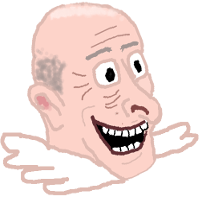
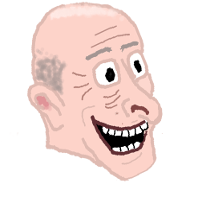
Aleteo

Changed region(s): [[0.0, 0.66, 0.63, 0.99], [0.75, 0.6, 1.0, 0.81]]

diff --git a/flappywert/flappy-min.js b/flappywert/flappy-min.js
@@ -1,1 +1,1 @@
-bg=document.getElementById("bg");H=bg.clientHeight;W=bg.clientWidth;G=H/240;UP=H/35;SPEED_WALL=W/100;GAP=H/3;WERT_SIZE=GAP/3;WALL_WIDTH=WERT_SIZE;fg=document.getElementById("fg");fg.style.width=W+"px";fg.style.height=H+"px";score=document.getElementById("score");running=true;var txt=["","RECORTES","CATALUNYA","GOYA","ERASMUS","BECAS","FUGA CEREBROS","CEDRO","INTERNET","CEDRO","ENLACES",""];function Wert(a,b){this.div=document.getElementById("wert");this.maxY=a;this.maxX=b;this.x=b/3;this.y=a/3;this.speedY=0;this.div.style.width=(WERT_SIZE+10)+"px";this.div.style.height=(WERT_SIZE+10)+"px";this.numPass=0;this.speedX=0;this.limitX=this.x;this.lives=1;this.div.style.left=this.x+"px";this.div.src="wert.png";this.setPos=function(c){this.y=c;this.div.style.top=c+"px"};this.moveDown=function(){if(this.speedY>0){this.div.className="rotdown"}this.y+=this.speedY;this.div.style.top=this.y+"px";this.speedY+=G;if(this.y+WERT_SIZE>=this.maxY){this.y=this.maxY-WERT_SIZE;this.speedY=-UP/2}this.x+=this.speedX;if(this.x>this.limitX){this.x=this.limitX;this.speedX=0;this.div.style.left=this.x+"px"}if(this.x<this.limitX){this.speedX+=G;this.div.style.left=this.x+"px"}};this.moveUp=function(){this.div.className="rotup";this.speedY=-UP;this.moveDown()};this.hitLeft=function(){this.lives-=1;this.div.src="wert_golpe.png";this.speedX=-1.5*UP};this.hitUp=function(){this.lives-=1;this.div.src="wert_golpe.png";this.speedY=UP/4};this.hitDown=function(){this.lives-=1;this.div.src="wert_golpe.png";this.speedY=-UP/2}}function Wall(b,a){this.x=b;this.gapTop=Math.random()*H;this.div=document.getElementById(a);this.div.style.height=H+"px";this.div.style.left=b+"px";this.wallUp=this.div.childNodes[0];this.wallDown=this.div.childNodes[1];this.width=WALL_WIDTH;this.renew=function(c){this.x=c;this.div.style.left=c+"px";this.div.style.width=this.width+"px";this.gapTop=0.5*GAP+Math.random()*(H-2*GAP);this.wallUp.style.height=this.gapTop+"px";this.wallUp.style.marginBottom=GAP+"px";this.wallDown.style.height=(H-GAP-this.gapTop)+"px";idx=Math.floor(Math.random()*(txt.length-1));mytxt="<span>"+txt[idx].split("").join("<br/>")+"</span>";this.wallUp.innerHTML=mytxt;this.wallDown.innerHTML=mytxt};this.setPos=function(c){this.x=c;this.div.style.left=c+"px"};this.moveLeft=function(){this.x-=SPEED_WALL;this.div.style.left=this.x+"px"};this.checkCrash=function(c){if((this.x+this.width)<=c.x){if(this.x+this.width+SPEED_WALL>c.x){c.numPass+=1;score.textContent=""+c.numPass}return false}if(c.x+WERT_SIZE+10<=this.x){return false}if(c.y>=this.gapTop&&(c.y+WERT_SIZE)<=this.gapTop+GAP){return false}if(c.x<=(this.x-WERT_SIZE/2)){c.x=this.x-WERT_SIZE;c.hitLeft()}else{if(c.y<this.gapTop){c.hitUp();c.y=this.gapTop}else{c.hitDown();c.y=this.gapTop+GAP-WERT_SIZE}}return true}}var wert;var walls;var intervalId;function startGame(){running=true;wert=new Wert(H,W);score.textContent=""+wert.numPass;wall1=new Wall(W,"wall1");wall2=new Wall(W,"wall2");wall3=new Wall(W,"wall3");walls=new Array();walls.push(wall1);walls.push(wall2);walls.push(wall3);var b;var a=W;for(b=0;b<walls.length;b++){walls[b].renew(a+b*W/(walls.length-1))}intervalId=setInterval(loop,70)}function touch(){if(running){wert.moveUp()}}function loop(){wert.moveDown();for(i=0;i<walls.length;i++){if(walls[i].checkCrash(wert)){if(wert.lives<0){running=false;window.clearInterval(intervalId);window.setTimeout(startGame,1500)}}walls[i].moveLeft();if(walls[i].x+walls[i].width<0){walls[i].renew(W+(walls.length-2)*W/(walls.length-1))}}}startGame();
+bg=document.getElementById("bg");H=bg.clientHeight;W=bg.clientWidth;G=H/240;UP=H/35;SPEED_WALL=W/80;GAP=H/3;WERT_SIZE=GAP/3;WALL_WIDTH=WERT_SIZE;fg=document.getElementById("fg");fg.style.width=W+"px";fg.style.height=H+"px";score=document.getElementById("score");running=true;var txt=["","RECORTES","CATALUNYA","GOYA","ERASMUS","BECAS","FUGA CEREBROS","CEDRO","INTERNET","CEDRO","ENLACES",""];function Wert(a,b){this.div=document.getElementById("wert");this.face=document.getElementById("face");this.wings=document.getElementById("wings");this.maxY=a;this.maxX=b;this.x=b/3;this.y=a/3;this.speedY=0;this.div.style.width=(WERT_SIZE+10)+"px";this.div.style.height=(WERT_SIZE+10)+"px";this.numPass=0;this.speedX=0;this.limitX=this.x;this.lives=1;this.flap=1;this.div.style.left=this.x+"px";this.face.src="wert.png";this.setPos=function(c){this.y=c;this.div.style.top=c+"px"};this.moveDown=function(){if(this.speedY>0){this.div.className="rotdown"}this.y+=this.speedY;this.div.style.top=this.y+"px";this.speedY+=G;if(this.y+WERT_SIZE>=this.maxY){this.y=this.maxY-WERT_SIZE;this.speedY=-UP/2}this.x+=this.speedX;if(this.x>this.limitX){this.x=this.limitX;this.speedX=0;this.div.style.left=this.x+"px"}if(this.x<this.limitX){this.speedX+=G;this.div.style.left=this.x+"px"}this.moveWings()};this.moveUp=function(){this.div.className="rotup";this.speedY=-UP;this.moveDown()};this.hitLeft=function(){this.lives-=1;this.face.src="wert_golpe.png";this.speedX=-1.5*UP};this.hitUp=function(){this.lives-=1;this.face.src="wert_golpe.png";this.speedY=UP/4};this.hitDown=function(){this.lives-=1;this.face.src="wert_golpe.png";this.speedY=-UP/2};this.moveWings=function(){if(this.speedY>=UP/2&&this.flap==4){this.wings.src="wing4.png"}else{this.flap=this.flap%6+1;if(this.flap>4){flap=8-this.flap;this.wings.src="wing"+flap+".png"}else{this.wings.src="wing"+this.flap+".png"}}}}function Wall(b,a){this.x=b;this.gapTop=Math.random()*H;this.div=document.getElementById(a);this.div.style.height=H+"px";this.div.style.left=b+"px";this.wallUp=this.div.childNodes[0];this.wallDown=this.div.childNodes[1];this.width=WALL_WIDTH;this.renew=function(c){this.x=c;this.div.style.left=c+"px";this.div.style.width=this.width+"px";this.gapTop=0.5*GAP+Math.random()*(H-2*GAP);this.wallUp.style.height=this.gapTop+"px";this.wallUp.style.marginBottom=GAP+"px";this.wallDown.style.height=(H-GAP-this.gapTop)+"px";idx=Math.floor(Math.random()*(txt.length-1));mytxt="<span>"+txt[idx].split("").join("<br/>")+"</span>";this.wallUp.innerHTML=mytxt;this.wallDown.innerHTML=mytxt};this.setPos=function(c){this.x=c;this.div.style.left=c+"px"};this.moveLeft=function(){this.x-=SPEED_WALL;this.div.style.left=this.x+"px"};this.checkCrash=function(c){if((this.x+this.width)<=c.x){if(this.x+this.width+SPEED_WALL>c.x){c.numPass+=1;score.textContent=""+c.numPass}return false}if(c.x+WERT_SIZE+10<=this.x){return false}if(c.y>=this.gapTop&&(c.y+WERT_SIZE)<=this.gapTop+GAP){return false}if(c.x<=(this.x-WERT_SIZE/2)){c.x=this.x-WERT_SIZE;c.hitLeft()}else{if(c.y<this.gapTop){c.hitUp();c.y=this.gapTop}else{c.hitDown();c.y=this.gapTop+GAP-WERT_SIZE}}return true}}var wert;var walls;var intervalId;function startGame(){running=true;wert=new Wert(H,W);score.textContent=""+wert.numPass;wall1=new Wall(W,"wall1");wall2=new Wall(W,"wall2");wall3=new Wall(W,"wall3");walls=new Array();walls.push(wall1);walls.push(wall2);walls.push(wall3);var b;var a=W;for(b=0;b<walls.length;b++){walls[b].renew(a+b*W/(walls.length-1))}intervalId=setInterval(loop,70)}function touch(){if(running){wert.moveUp()}}function loop(){wert.moveDown();for(i=0;i<walls.length;i++){if(walls[i].checkCrash(wert)){if(wert.lives<0){running=false;window.clearInterval(intervalId);window.setTimeout(startGame,1500)}}walls[i].moveLeft();if(walls[i].x+walls[i].width<0){walls[i].renew(W+(walls.length-2)*W/(walls.length-1))}}}startGame();

diff --git a/flappywert/flappy.html b/flappywert/flappy.html
@@ -7,7 +7,10 @@
 </head>
 <body>
 <div id='bg'>
-<img id='wert' src="wert.png" />
+<div id='wert'>
+<img id='wings' src="wing1.png" />
+<img id='face' src="wert.png" />
+</div>
 <div id='wall1' class='wall'><div class='upwall'></div><div class='downwall' ></div></div>
 <div id='wall2' class='wall'><div class='upwall'></div><div class='downwall' ></div></div>
 <div id='wall3' class='wall'><div class='upwall'></div><div class='downwall' ></div></div>
@@ -31,7 +34,7 @@ Esta Web hace uso de cookies. Si continua en la Web navegando por distintas p&aa
   (function(i,s,o,g,r,a,m){i['GoogleAnalyticsObject']=r;i[r]=i[r]||function(){
   (i[r].q=i[r].q||[]).push(arguments)},i[r].l=1*new Date();a=s.createElement(o),
   m=s.getElementsByTagName(o)[0];a.async=1;a.src=g;m.parentNode.insertBefore(a,m)
-  })(window,document,'script','//www.google-analytics.com/analytics.js','ga');
+  })(window,document,'script','http://www.google-analytics.com/analytics.js','ga');
 
   ga('create', 'UA-48314224-1', 'jgmobiledeveloper.github.io');
   ga('send', 'pageview');

diff --git a/flappywert/index.html b/flappywert/index.html
@@ -5,6 +5,7 @@
     <title>Flappy wert</title>  
     <link rel="stylesheet" type="text/css" href="styles.css">
 </head>
+<h1 style="display: none;">Flappy Wert</h1>
 <body>
 <div id='bg' onclick='touch();'>
 <img src="wert.png" />
@@ -37,7 +38,7 @@ function touch(){
 (function(i,s,o,g,r,a,m){i['GoogleAnalyticsObject']=r;i[r]=i[r]||function(){
 (i[r].q=i[r].q||[]).push(arguments)},i[r].l=1*new Date();a=s.createElement(o),
 m=s.getElementsByTagName(o)[0];a.async=1;a.src=g;m.parentNode.insertBefore(a,m)
-})(window,document,'script','//www.google-analytics.com/analytics.js','ga');
+})(window,document,'script','http://www.google-analytics.com/analytics.js','ga');
 ga('create', 'UA-48314224-1', 'jgmobiledeveloper.github.io');
 ga('send', 'pageview');
 

diff --git a/flappywert/styles.css b/flappywert/styles.css
@@ -64,6 +64,20 @@ to { background-position: 100% 0; }
     left:250px;
     top:150px;
 }
+#face{
+    display:block;
+    width: 100%;
+    height: 100%;
+    position: absolute;
+    top:0px;
+    left:0px;
+}
+#wings{
+    width: 100%;
+    height: 100%;
+    z-index: 1;
+    position: relative;
+}
 .wall{
     position: absolute;
     top:0px;
